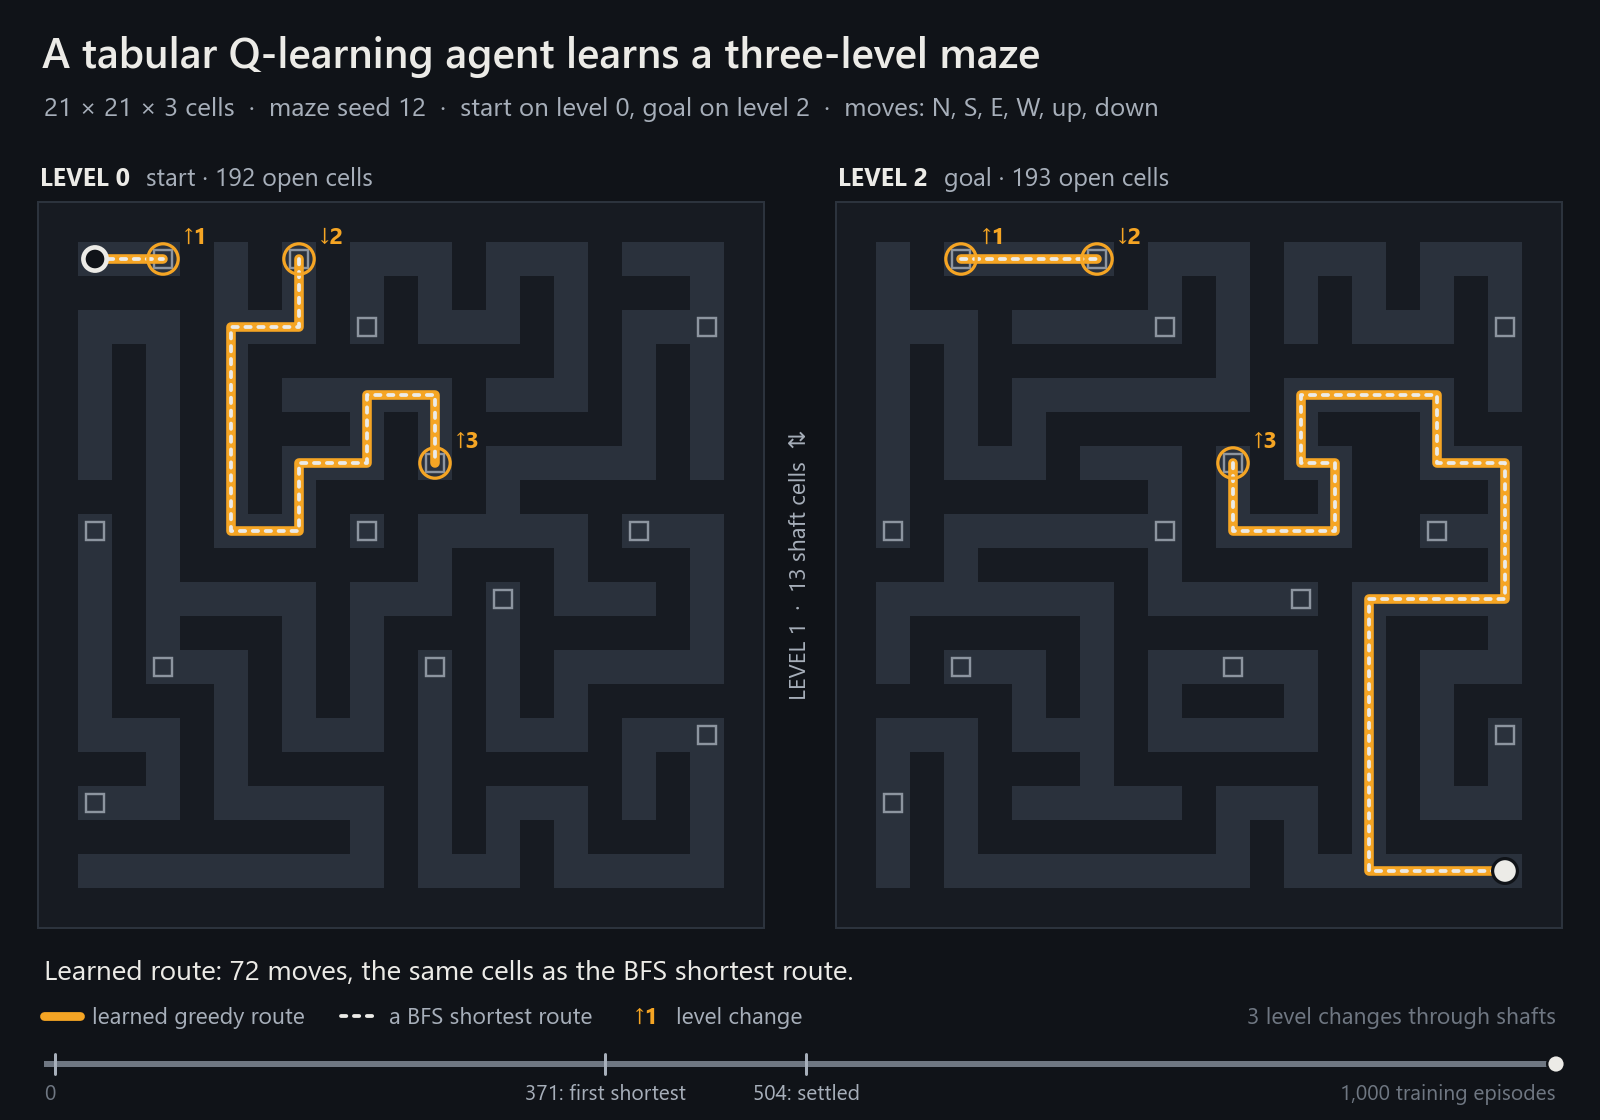
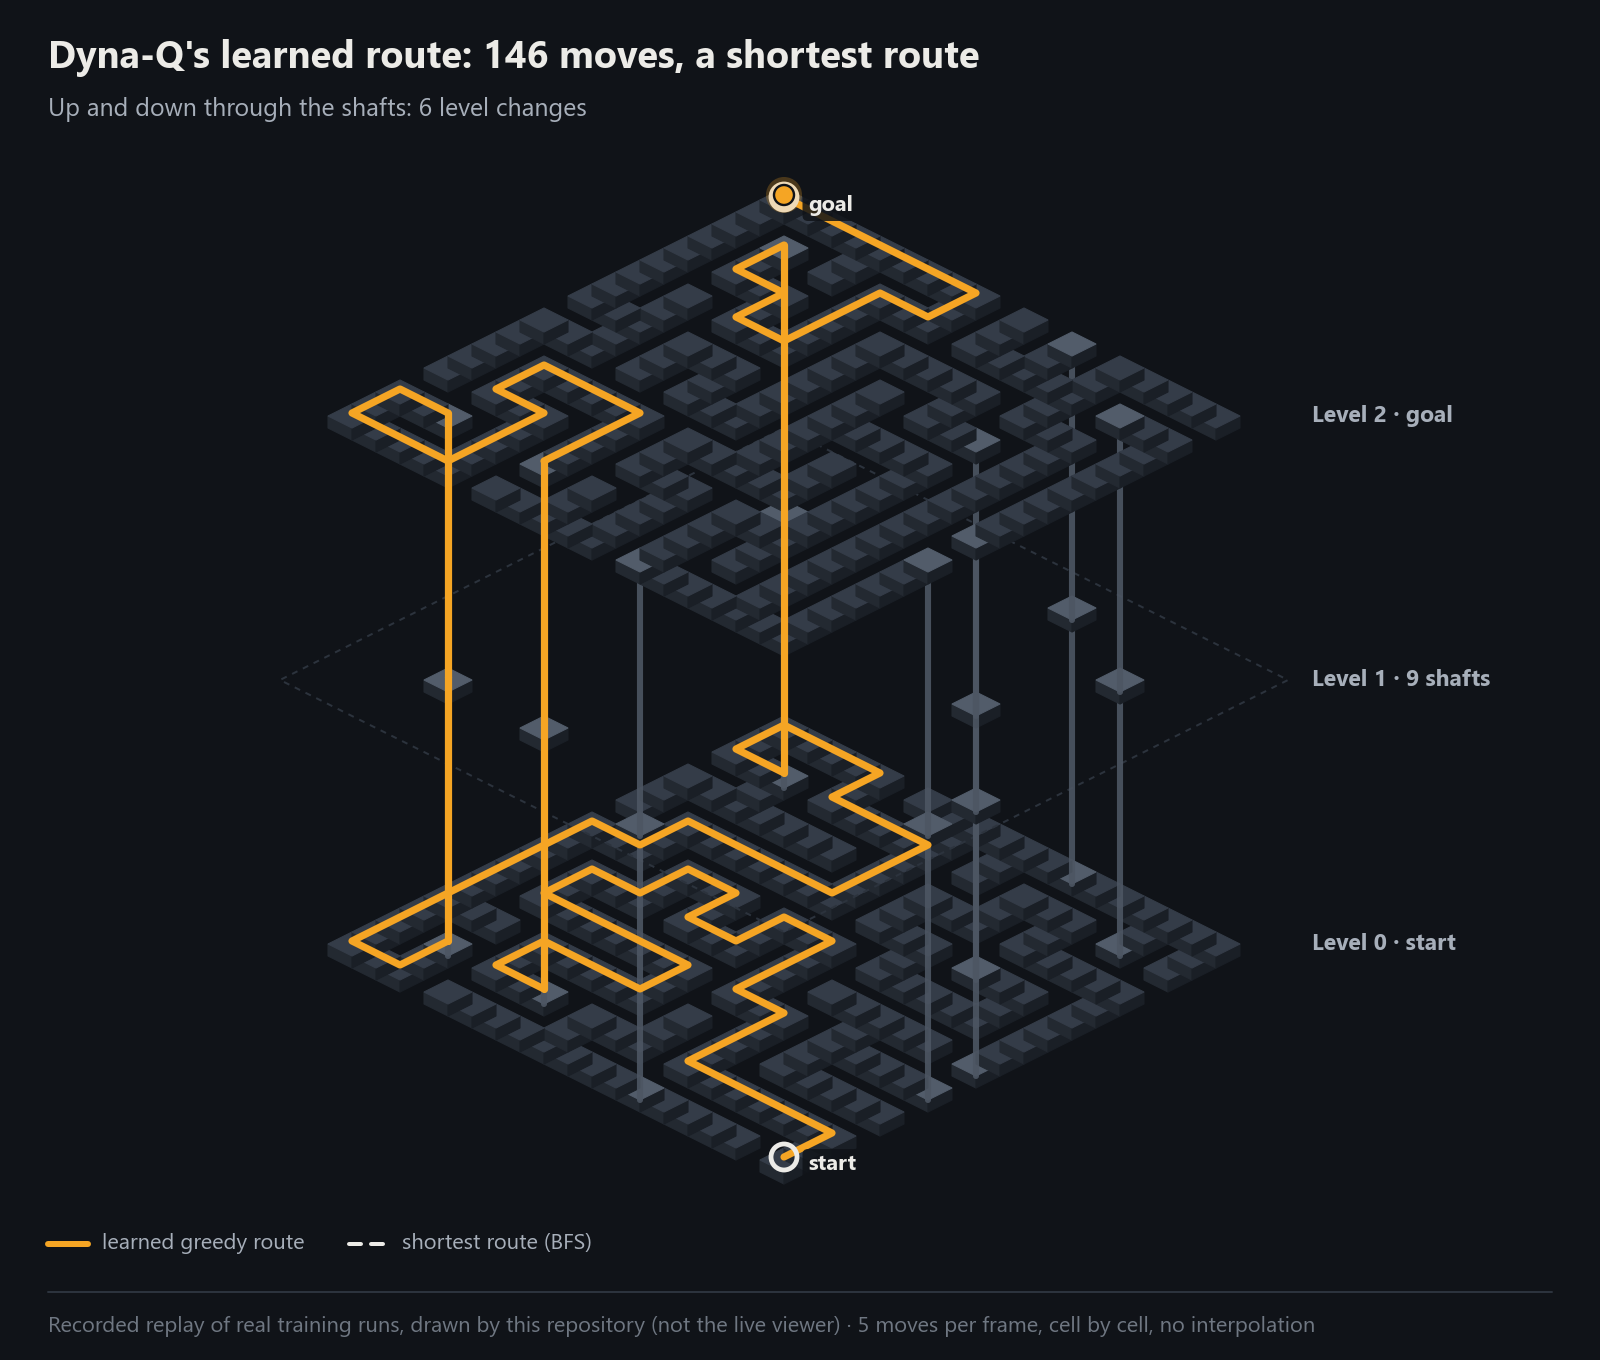
Add the animation without the GIF palette
Update the animation's reduced-motion poster

Record how the new animation was drawn

Add the value-propagation report

The question, the methods and their references, the pre-registered
protocol, results with intervals and paired tests, the two-phase
diagnostic, both failures and what the results do and do not show.

diff --git a/docs/value-propagation/README.md b/docs/value-propagation/README.md
@@ -1,0 +1,237 @@
+# Does slow value propagation limit learning on long routes?
+
+[README](../../README.md) · [Evaluation suite](../evaluation/README.md) · [Claude tool-use task](../claude-tool-use/README.md) · [Raw results](results)
+
+**Answer: yes.** Faster value propagation removes the long-route failure:
+
+- **Long routes:** on the 60 final mazes whose shortest route is longer than 120 moves, Q-learning's greedy route converged on none within 1,000 episodes. Dyna-Q's converged on all 60, Watkins's Q(λ)'s on 30.
+- **Real moves:** where both converged, Dyna-Q needed 14–18× fewer real moves than Q-learning.
+- **Compute:** it paid for that with about 3× the Q-value updates.
+
+The diagnostic shows propagation helping in two places:
+
+- **After the goal is found:** the gap from the first episode that reaches the goal to the first shortest greedy route shrinks 22–32×.
+- **While exploring:** on three-level mazes the goal is also found 4.7–6.3× sooner.
+
+**Two failures, both explained:**
+
+- **Q(λ) with long traces:** with long traces, Watkins's Q(λ) stops exploring.
+- **Dyna-Q on one maze:** on 1 maze in 60, Dyna-Q locked onto a route 8 moves longer than the shortest.
+
+![Four panels, one per maze set: the share of runs whose frozen greedy route is a shortest route, against real environment steps on a log scale. Dyna-Q's curve rises first in every panel and reaches 100% on the long-route set, where Q(λ) reaches 50% and Q-learning stays at 0%.](figures/learning_curves.png)
+
+## Results
+
+The final runs: 3 methods × 210 mazes, the same mazes and exploration seeds for every method ([`results/runs.csv`](results/runs.csv); all tables in [`results/tables.md`](results/tables.md)). The table gives, for each maze set:
+
+- **Converged:** runs converged, with 95% Wilson intervals.
+- **Real moves to converge:** the median over all runs, counting a run that did not converge as never.
+- **Updates per real move:** Q-value updates per real move.
+- **Agent time:** the median agent time per run of 1,000 episodes, one run per worker process, on the processor the provenance records (Intel64 Family 6 Model 170, 20 workers).
+
+| Maze set | Method | Converged | Real moves to converge | Updates per real move | Agent time per run |
+|---|---|---|---|---|---|
+| 2D, 21 × 21 (60) | Q-learning | 54/60 (80–95%) | 98k | 1 | 1.8 s |
+| | Watkins's Q(λ) | 60/60 (94–100%) | 63k | 23.5 | 5.9 s |
+| | Dyna-Q | 60/60 (94–100%) | 5.2k | 51 | 27 s |
+| One level, 21 × 21 (60) | Q-learning | 60/60 (94–100%) | 75k | 1 | 1.7 s |
+| | Watkins's Q(λ) | 60/60 (94–100%) | 45k | 18.5 | 3.0 s |
+| | Dyna-Q | 60/60 (94–100%) | 5.6k | 51 | 27 s |
+| Three levels, 21 × 21 × 3 (60) | Q-learning | 26/60 (32–56%) | not reached | 1 | 5.5 s |
+| | Watkins's Q(λ) | 45/60 (63–84%) | 223k | 23.0 | 11 s |
+| | Dyna-Q | 59/60 (91–100%) | 33k | 51 | 55 s |
+| Long routes, > 140 moves (30) | Q-learning | 0/30 (0–11%) | not reached | 1 | 7.8 s |
+| | Watkins's Q(λ) | 15/30 (33–67%) | not reached | 30.8 | 24 s |
+| | Dyna-Q | 30/30 (89–100%) | 57k | 51 | 101 s |
+
+Q-learning's rows reproduce the evaluation suite exactly: the experiment's training loop is tested to give the suite's runs check for check.
+
+**Paired with Q-learning**, on the mazes where both converged (geometric means, bootstrap 95% intervals). For each method: how many times fewer real moves it needed than Q-learning, and how many times more Q-value updates it spent to converge.
+
+| Maze set | Dyna-Q: fewer real moves | Dyna-Q: more updates | Q(λ): fewer real moves | Q(λ): more updates |
+|---|---|---|---|---|
+| 2D (54 mazes) | 18.3× (16.8–19.9) | 2.8× (2.6–3.0) | 1.59× (1.57–1.61) | 8.9× (8.4–9.4) |
+| One level (60) | 14.1× (13.2–15.1) | 3.6× (3.4–3.9) | 1.68× (1.65–1.71) | 6.5× (6.2–6.8) |
+| Three levels (25 for Dyna-Q, 26 for Q(λ)) | 14.2× (12.6–16.1) | 3.6× (3.2–4.1) | 1.82× (1.74–1.92) | 6.5× (5.9–7.0) |
+
+Mazes that only one of the pair converged:
+
+- **Three-level suite:** Dyna-Q converged on 34 where Q-learning did not, and Q-learning on 1 where Dyna-Q did not. Exact McNemar p = 2 × 10⁻⁹; the converged share rose 55 points (42 to 68).
+- **Long-route set:** Dyna-Q on 30 and Q-learning on 0 (p = 2 × 10⁻⁹). Q(λ) on 15 and Q-learning on 0 (p = 6 × 10⁻⁵).
+
+### By route length
+
+![Converged share by shortest-route length for the three methods: all converge up to 80 moves; at 81–120 moves Q-learning drops to 81%; beyond 120 moves Q-learning converges on none, Q(λ) on 71% (121–160) and 31% (over 160), Dyna-Q on all.](figures/route_length.png)
+
+| Shortest route | Q-learning | Watkins's Q(λ) | Dyna-Q |
+|---|---|---|---|
+| up to 80 moves (96 mazes) | 96/96 | 96/96 | 96/96 |
+| 81–120 moves (54) | 44/54 | 54/54 | 53/54 |
+| more than 120 moves (60) | **0/60** | **30/60** | **60/60** |
+
+The suite's finding, that no route longer than 120 moves converged, holds for Q-learning on 30 more mazes. It does not hold for Dyna-Q.
+
+## Diagnostic: which part of learning got faster
+
+Real moves to a shortest greedy route split into two phases:
+
+1. exploring until an episode first reaches the goal, which measures finding the goal;
+2. from there to the first shortest greedy route, which measures how fast that experience reaches the start as value.
+
+The second phase is the one slow propagation predicts.
+
+![Two dot plots of median real steps per maze set and method. Phase 1, exploring until an episode reaches the goal: Dyna-Q is fastest, and Q(λ) is slower than Q-learning. Phase 2, from there to the first shortest greedy route: Dyna-Q is 22 to 32 times faster than Q-learning, Q(λ) about twice as fast, and Q-learning does not get there on the long routes.](figures/diagnostics.png)
+
+| Maze set | Phase 1, median real moves (Q-learning / Q(λ) / Dyna-Q) | Phase 2, median real moves (Q-learning / Q(λ) / Dyna-Q) |
+|---|---|---|
+| 2D | 1.8k / 5.9k / 1.1k | 80k / 51k / 2.5k |
+| One level | 1.8k / 5.7k / 1.5k | 65k / 34k / 3.0k |
+| Three levels | 33k / 39k / 7.0k | 342k / 173k / 15k |
+| Long routes | 103k / 129k / 16k | not reached / 343k / 26k |
+
+- **Propagation, isolated.** On 2D and one-level mazes, Dyna-Q and Q-learning find the goal at about the same time: medians of 1.1k–1.5k real moves for Dyna-Q and 1.8k for Q-learning. Dyna-Q then turns that first arrival into a shortest greedy route 22–32× faster. This is the propagation the explanation was about.
+- **Propagation also speeds up exploration.** On three-level mazes Dyna-Q also finds the goal 4.7–6.3× sooner. In its first 10 episodes it discovers 69% of the reachable cells, against 38–49% for Q-learning. Untried actions are valued at 0 and tried ones go negative, so the agent is drawn to what it has not tried. Planning spreads the step and wall penalties through explored corridors quickly, so they lose their pull sooner and the agent moves on.
+- **Q(λ) shortens only phase 2, by a third to a half, and lengthens phase 1.** Its traces carry those same penalties back along the path the agent just walked. That includes corridors that lead toward unexplored cells, so it explores less systematically. This is the mild form of the failure below.
+
+## Failures
+
+### Watkins's Q(λ) with long traces stops exploring
+
+![Top left: the share of development runs converged against λ, peaking at λ 0.3 above Q-learning's 78% and falling to 0 at λ 0.9. Top right: the median share of reachable cells discovered against real steps, levelling off near 40% at λ 0.7 and 16% at λ 0.9. Bottom: one 2D development maze after 50,000 real steps, where Q-learning has discovered 183 of 185 cells and Q(λ) with λ 0.9 only 26, all near the start.](figures/failure.png)
+
+On the development mazes, λ = 0.3 beat Q-learning: 57 of 60 runs converged, against 47. Longer traces failed:
+
+| λ (accumulating traces) | 0.1 | 0.3 | 0.5 | 0.7 | 0.9 |
+|---|---|---|---|---|---|
+| development runs converged (of 60) | 51 | 57 | 48 | 5 | 0 |
+| reachable cells discovered after 50k real moves (median run) | 98% | 95% | 83% | 39% | 16% |
+
+Replacing traces fail the same way: 15 and 0 of 60 runs converged at λ 0.7 and 0.9.
+
+**The mechanism.** All three agents explore through optimism: untried actions are worth 0 and tried ones turn negative.
+
+- **What gets credited:** Watkins's Q(λ) cuts its traces only after a non-greedy action. Choosing among untried actions, which all tie at 0, counts as greedy. So every step and wall penalty of an exploring walk is credited back along the whole path, including the corridors that led toward unexplored cells.
+- **What that does:** those corridors turn as negative as the explored ones, the pull toward the unexplored disappears, and the walk becomes local. On development maze 1004, chosen by rule (the 2D development maze with the median route), Q(λ) with λ = 0.9 had found 26 of the maze's 185 cells after 50,000 real moves. Q-learning had found 183.
+- **Why the tuning protects against it:** the tuning grid included λ ≥ 0.7 and the rule chose 0.3. That is why the final results show Q(λ) helping rather than collapsing.
+
+### Dyna-Q can lock onto a longer route
+
+Dyna-Q failed to converge on one final maze, three-level maze 58, which has more than one route:
+
+- **What happened:** its greedy route settled on 114 moves and never matched the 106-move shortest route at any of its 1,000 checks. Q-learning converged on the same maze at episode 891, and Q(λ) at episode 332.
+- **Why:** once planning has spread the goal's value along the first route found, that route's actions are worth more than 0, so untried actions no longer win the greedy choice. From then on only ε-exploration (1% late in training) can find the shorter branch, and here it did not.
+- **The pattern:** fast propagation trades away some of the exploration that slow propagation keeps by accident. This is the one case where it cost Dyna-Q the right answer.
+
+## What this does and does not show
+
+- **Shown:** on these mazes, slow propagation is what stops one-step Q-learning on long routes. Methods that move value faster converge where it does not. The faster the propagation, the larger the gain: Dyna-Q at 51 updates per move beats Q(λ) at λ = 0.3.
+- **Not shown:** that Dyna-Q is the better algorithm in general.
+  - **Compute:** to converge, Dyna-Q uses about 3× the updates; over a full run it uses 10–16× Q-learning's agent time.
+  - **Its model:** it relies on a deterministic, tabular model.
+  - **Tuning:** only each method's own setting was tuned. The shared settings (learning rate, discount, ε schedule) are the repository's and were not tuned for either method.
+  - **Scale:** the mazes are small and deterministic, the goal is always in the far corner, and nothing transfers between mazes.
+
+## The question
+
+The [evaluation suite](../evaluation/README.md) found two things about the repository's tabular Q-learning agent. Its greedy route needs about 7 to 9 training episodes per move of route before it is a shortest route. And no run with a route longer than 120 moves converged within 1,000 episodes. One-step Q-learning moves the goal's value back by one state per update, so the explanation offered was **slow value propagation**.
+
+That explanation predicts that methods which propagate value faster should converge on long routes where Q-learning does not. If this is the cause, they should do so without exploring any differently. This experiment tests that prediction with two such methods, on the same mazes, from the same exploration seeds.
+
+## Methods
+
+All three agents share everything except how experience updates the Q-table:
+
+- the learning rate 0.1, the discount 0.95 and Q-values starting at 0 (so untried actions look attractive);
+- ε-greedy exploration from 0.1, decaying by 0.995 per episode to 0.01, with ties broken at random;
+- the rewards: +100 at the goal, −0.1 per move, −1 for a wall bump.
+
+| Method | Update | Extra setting |
+|---|---|---|
+| **Q-learning** ([`q_learning_agent.py`](../../maze_runner_rl/src/agents/q_learning_agent.py)), the baseline, unchanged | One-step: Q(s, a) moves toward r + γ max Q(s′, ·) | none |
+| **Watkins's Q(λ)** ([`q_lambda_agent.py`](../../maze_runner_rl/src/agents/q_lambda_agent.py)) | Eligibility traces spread each update back over the state–action pairs visited since the last exploratory action, decaying by γλ per step | λ, and accumulating or replacing traces |
+| **Dyna-Q** ([`dyna_q_agent.py`](../../maze_runner_rl/src/agents/dyna_q_agent.py)) | After each real step, n further Q-learning updates replayed from a learned model | n, the planning updates per real step |
+
+**Watkins's Q(λ)** follows the tabular algorithm in Sutton and Barto (1998), Section 7.6:
+
+- the next action a′ is chosen from s′ before the update;
+- a* is the greedy action in s′, and a′ counts as a* if it ties for the best value;
+- the TD error δ = r + γ Q(s′, a*) − Q(s, a) is applied to every traced pair;
+- after the step the traces decay by γλ if a′ = a*, and are cut to 0 otherwise.
+
+Replacing traces (Singh and Sutton, 1996) set the trace of the pair taken to 1 and those of the state's other actions to 0. The implementation was checked line by line against the authors' Chapter 7 lecture slides. Those slides print the δ line with a′ and a* swapped; the code uses the Q-learning target, which the section describes.
+
+**Dyna-Q** follows the Tabular Dyna-Q box in Sutton and Barto (2018), Section 8.2, checked against Sutton's slides of the same algorithm:
+
+- **Model:** a table of observed transitions, (state, action) → (reward, next state, ended the episode). The maze is deterministic, so the last outcome is the outcome. The model holds only transitions the agent has actually made, never the maze.
+- **Planning:** each of the n planning updates picks a random previously observed state, then a random action previously taken there, and applies the one-step Q-learning update to the model's outcome. A planning update into the goal does not bootstrap, exactly as a real one does not.
+- **Randomness:** planning draws from its own seeded generator (700000 + maze seed), so it does not shift the random numbers that drive exploration.
+
+Each method's defining update is tested by hand in [`test_value_agents.py`](../../maze_runner_rl/tests/test_value_agents.py):
+
+- Q(λ):
+  - traces carry a goal reward back within one episode;
+  - an exploratory next action cuts them, and a tie for the best value does not;
+  - accumulating and replacing traces differ on revisits;
+  - λ = 0 is exactly one-step Q-learning.
+- Dyna-Q:
+  - the model holds only observed transitions;
+  - planning carries the goal's value back without new experience;
+  - planning into the goal does not bootstrap;
+  - n = 0 is exactly Q-learning.
+
+## Protocol
+
+The protocol was fixed in code ([`compare_methods.py`](../../maze_runner_rl/experiments/compare_methods.py)) before any final run:
+
+1. **Development mazes**, maze seeds 1000–1019 of each type, chose each new method's own setting. Q-learning was not tuned. The grid and the rules:
+   - **Watkins's Q(λ):** λ in {0.1, 0.3, 0.5, 0.7, 0.9} × {accumulating, replacing}. Most development runs converged wins; ties go to fewer median real steps to convergence.
+   - **Dyna-Q:** n in {5, 10, 20, 50}. Take the best setting, then the smallest n that converged on at most one run fewer and whose median real steps to convergence is at most 10% higher, so planning compute is not spent on a difference the development mazes cannot show.
+2. **Freezing:** the chosen settings and the final mazes were written to [`frozen_settings.json`](frozen_settings.json), committed and pushed (`49c188c`) before the final runs started. The final runs record that file's hash.
+3. **Final mazes:**
+   - the evaluation suite's mazes, seeds 0–59 of each type (2D 21 × 21, one level 21 × 21, three levels 21 × 21 × 3);
+   - a **long-route set**: the first 30 three-level mazes from seed 2000 up whose shortest route has at least 141 moves. It was chosen from maze structure alone, before any run.
+
+   Every method trains on the same maze with the same exploration seed (500000 + maze seed).
+
+**Budget and criteria**, the same for every method and fixed in advance:
+
+- **Budget:** 1,000 training episodes of at most 1,000 moves.
+- **Greedy check:** after every episode the greedy policy is frozen and followed from the start with no exploration and no learning. It stops at the goal or at the first repeated cell.
+- **Reaches:** the greedy walk arrives at the goal.
+- **Shortest:** it arrives in the breadth-first-search distance.
+- **Converged:** shortest at every check from some episode to the end of the budget, for at least 100 checks. A run that settles too late to show 100 checks counts as not converged; it is not dropped.
+- **Experience:** counted in real environment steps, every move including bumps into walls. Planning updates and trace updates are counted separately, and the time spent inside the agent is measured, so extra computation stays visible.
+
+**Statistics.** Shares carry 95% Wilson intervals over independent runs (one maze and one exploration seed each). Medians of real steps count a run that never converged as never converging, rather than dropping it; their intervals are percentile bootstraps over runs. Comparisons with Q-learning are paired by maze:
+
+- an exact McNemar test on the mazes where only one of the two converged;
+- a paired bootstrap of the change in converged share;
+- a sign test on which method converged with fewer real steps (a run that did not converge counts as slower).
+
+## Reproduce
+
+From `maze_runner_rl/`, with the repository's virtual environment:
+
+```bash
+python -m experiments.compare_methods tune      # development mazes -> frozen_settings.json, tuning/ (26 min on 20 workers)
+python -m experiments.compare_methods final     # final mazes with the frozen settings -> results/ (16 min)
+python -m experiments.compare_methods tables    # summary.json and tables.md from results/runs.csv
+python -m experiments.plot_value_propagation    # figures/ and figures/analysis.json
+```
+
+The runs are deterministic: the same commands give the same `runs.csv`, apart from the timing columns. Each results folder records its provenance: the commit, a hash of the code the results depend on, the frozen settings' hash, the library versions, the processor and the worker count. The per-episode data behind every run is kept in `episodes.jsonl.gz`, and every number quoted on this page is computed from it in [`figures/analysis.json`](figures/analysis.json).
+
+**Provenance of the current results:**
+
+- **Tuning:** ran at commit `91364a1`.
+- **Final runs:** ran at commit `2a814c1`, after the frozen settings were committed and pushed.
+- **Same code:** the two runs have the same code digest (`ec8a27ef…`) and no uncommitted changes to the code they depend on. A later commit changed only how `compare_methods.py` formats its tables and console output. A rerun gives the same runs, but a different code digest.
+- **Environment:** Python 3.13.5, numpy 2.3.2, gymnasium 1.2.0.
+
+## References
+
+- C. J. C. H. Watkins (1989). *Learning from Delayed Rewards.* PhD thesis, University of Cambridge.
+- R. S. Sutton (1990). Integrated architectures for learning, planning, and reacting based on approximating dynamic programming. *Proceedings of the 7th International Conference on Machine Learning*, 216–224.
+- S. P. Singh and R. S. Sutton (1996). Reinforcement learning with replacing eligibility traces. *Machine Learning* 22, 123–158.
+- R. S. Sutton and A. G. Barto (1998). *Reinforcement Learning: An Introduction*, 1st ed., Section 7.6, Q(λ). Checked against the authors' [Chapter 7 slides](https://people.cs.umass.edu/~barto/courses/cs687/Chapter%207.pdf), slides 23–24 and 31–34.
+- R. S. Sutton and A. G. Barto (2018). *Reinforcement Learning: An Introduction*, 2nd ed., Section 8.2, Tabular Dyna-Q. Checked against Sutton's [planning and learning slides](https://web.stanford.edu/class/cme241/lecture_slides/rich_sutton_slides/16-17-planning-and-learning.pdf), slide 13.
